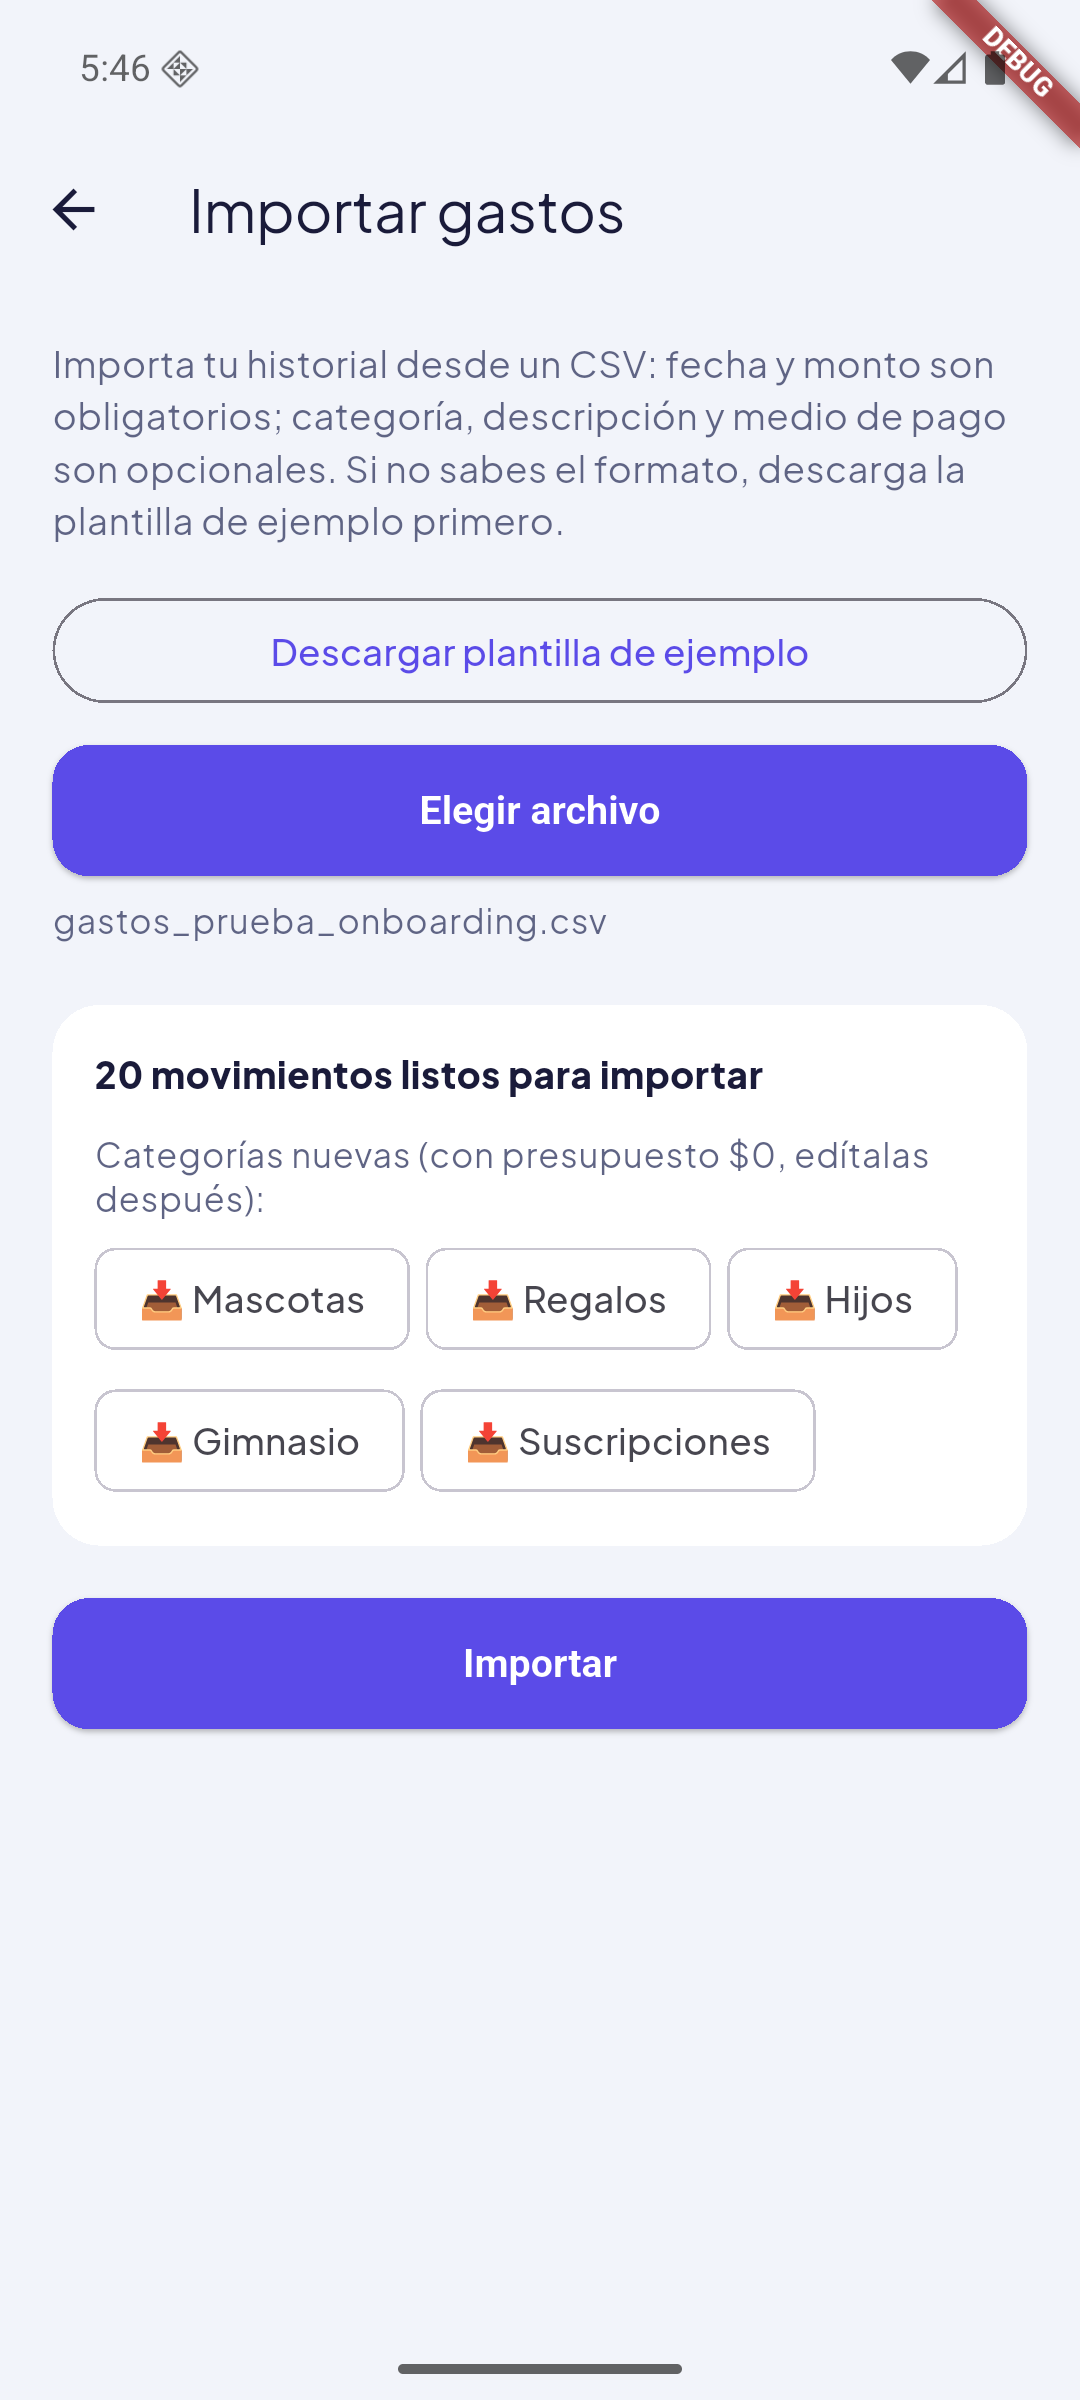
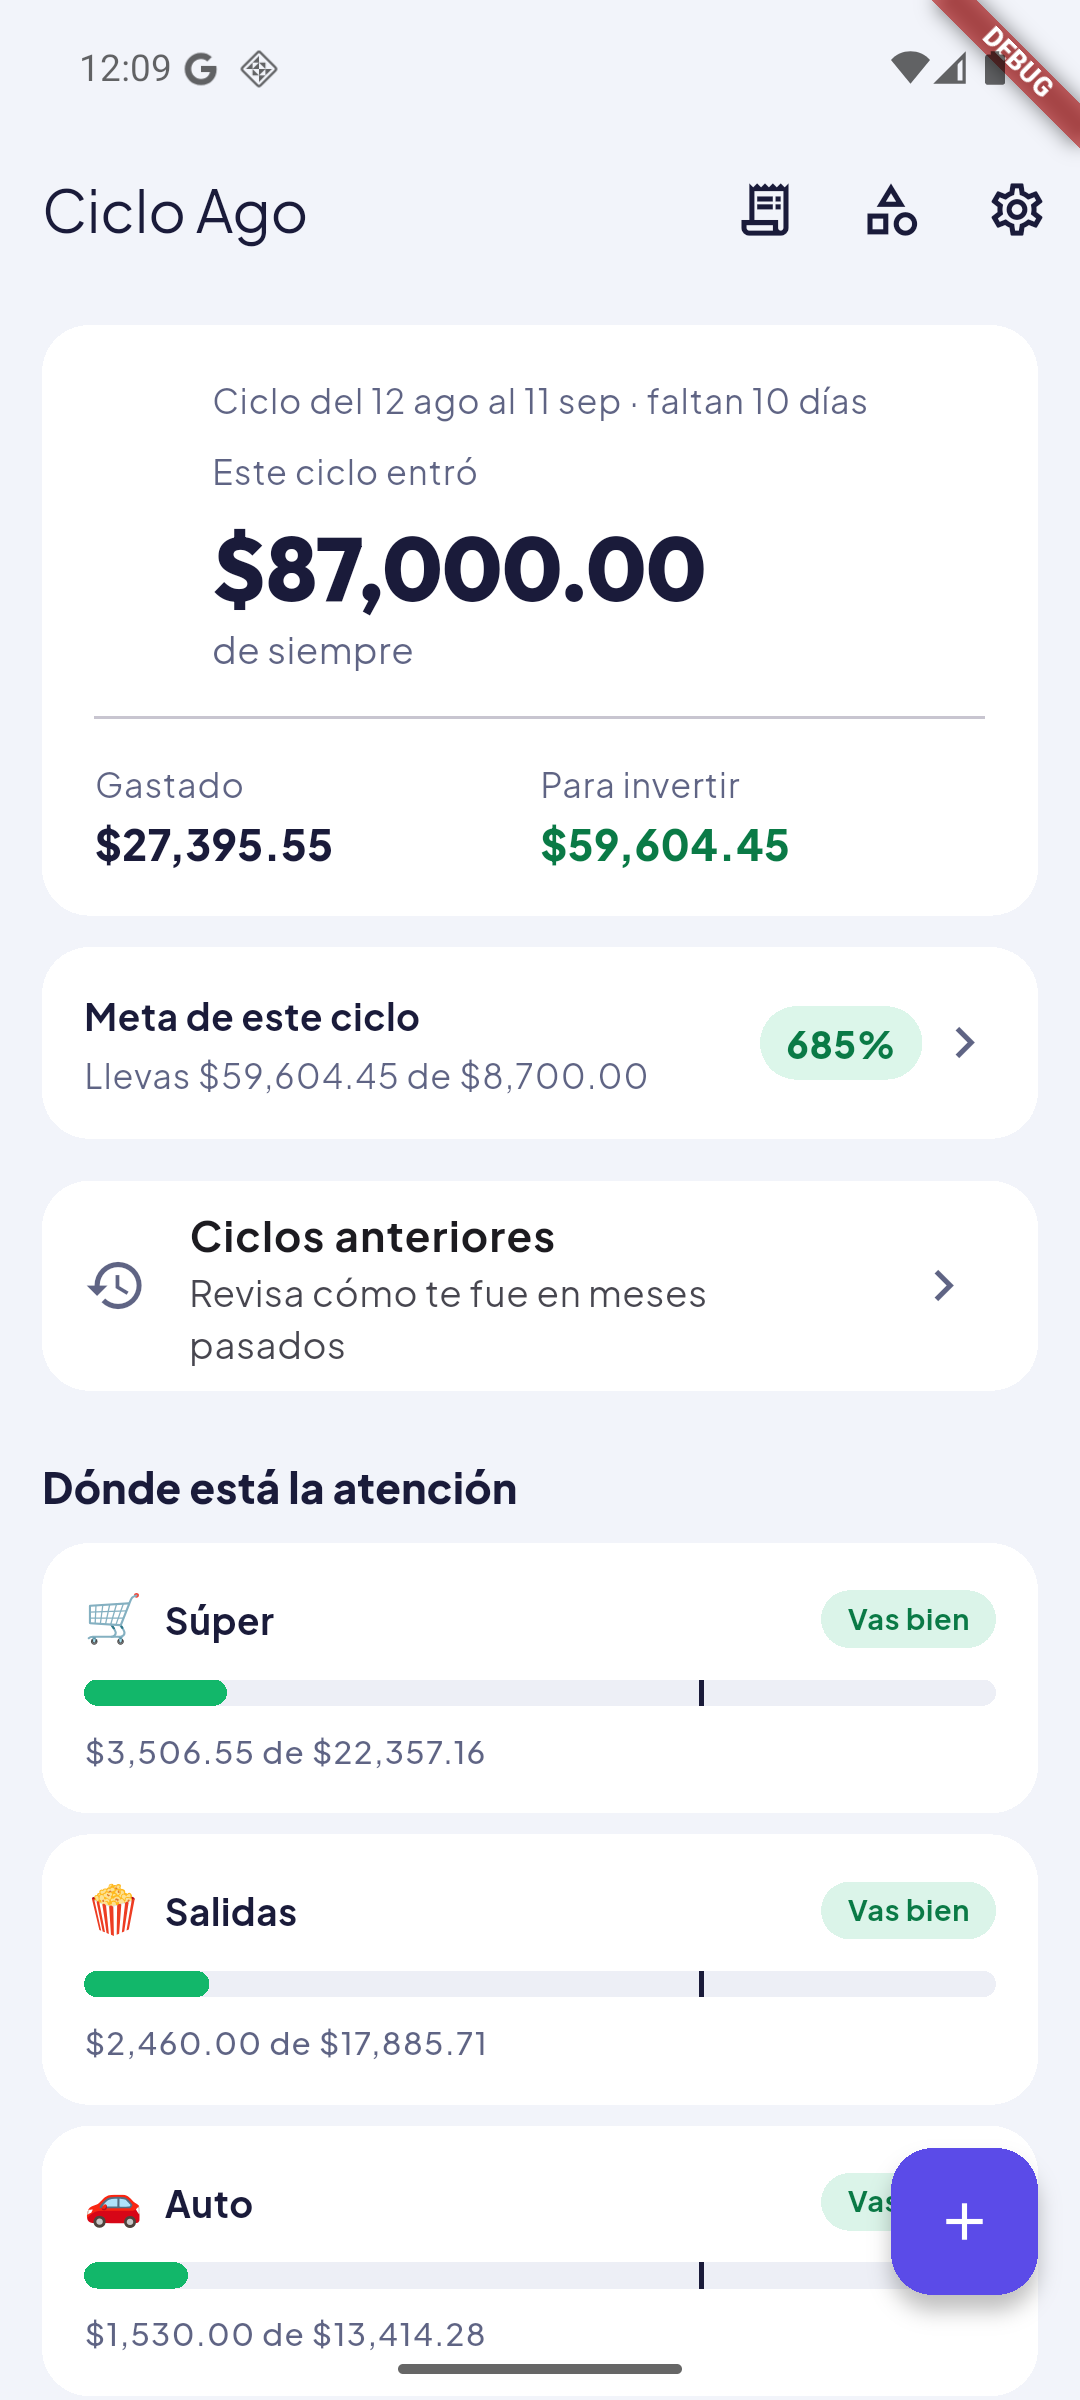
Completar onboarding y actualizar capturas con datos reales
Con el login ya funcionando, se completó el onboarding de una cuenta
de prueba nueva (ciclo día 12, ingreso 87000, meta 10%, categorías
sugeridas) y se importaron 20 movimientos de ejemplo vía CSV para
tener datos reales que mostrar.

Actualiza inicio.png y agrega gastos.png con esos datos. Ciclos
anteriores queda vacío a propósito: es el comportamiento correcto para
una cuenta nueva con el primer ciclo todavía abierto, no algo que se
pueda poblar sin inventar historial falso.

diff --git a/docs/tiendas/capturas/README.md b/docs/tiendas/capturas/README.md
@@ -1,21 +1,31 @@
 # Capturas de pantalla — estado
 
-Capturas reales tomadas del emulador `finanzas_pixel7` (Android 16, API 36)
-el 2026-08-24, con la cuenta real de la sesión (sin datos de prueba
-inventados a propósito, para no ensuciar el historial real):
+Capturas reales tomadas del emulador `finanzas_pixel7` (Android 16, API 36):
 
-- `inicio.png` — Pantalla de inicio con el ciclo en curso.
-- `ajustes.png` — Ajustes, incluida la entrada "Cómo funciona la app".
-- `guia.png` — Guía por temas (lista de temas).
+- `inicio.png` — Pantalla de inicio con el ciclo en curso (actualizada
+  2026-08-31, con historial importado — ver abajo).
+- `gastos.png` — Lista de gastos con movimientos reales (nueva, 2026-08-31).
+- `ajustes.png` — Ajustes, incluida la entrada "Cómo funciona la app"
+  (2026-08-24).
+- `guia.png` — Guía por temas (lista de temas) (2026-08-24).
 - `importar_vista_previa.png` — Vista previa de `previsualizarImportacion`
-  tras elegir un CSV con el selector nativo (`file_picker`).
+  tras elegir un CSV con el selector nativo (`file_picker`) (2026-08-24).
+
+`inicio.png` y `gastos.png` se retomaron el 2026-08-31 en una cuenta nueva
+de prueba (no la cuenta real del usuario), importando
+`gastos_prueba_onboarding.csv` (20 movimientos de ejemplo, ya usado en
+sesiones anteriores para pruebas) vía "Importar gastos" — así que la cifra
+que se ve ahí es historial de prueba, no datos reales de nadie.
 
 **Lo que falta para la ficha de tienda real:**
-- `Gastos` y `Ciclos anteriores` salieron en estado vacío ("Nada por aquí" /
-  "Todavía no hay ciclos anteriores") porque esta cuenta no tenía gastos
-  capturados — no se sembraron datos falsos para no alterar el historial
-  real. Repetir con una cuenta de prueba que sí tenga movimientos para esas
-  dos pantallas.
+- `Ciclos anteriores` sigue en estado vacío ("Todavía no hay ciclos
+  anteriores") — es correcto: es una cuenta recién creada, con el primer
+  ciclo todavía en curso (`calcularEvolucionCiclos` solo agrega ciclos ya
+  cerrados, por diseño — ver `CLAUDE.md`). No se puede poblar sin una
+  cuenta que ya lleve meses de uso real o sin manipular el reloj del
+  sistema — ninguna de las dos es un dato honesto para una captura de
+  tienda, así que se deja pendiente hasta que exista una cuenta de prueba
+  con historial de varios ciclos cerrados.
 - Estas son capturas crudas del dispositivo (1080×2400), no los recortes
   con marco/texto de marketing que piden Play Console / App Store Connect.
 - Falta el gráfico destacado (feature graphic) de Play y el ícono de

diff --git a/docs/tiendas/checklist-publicacion.md b/docs/tiendas/checklist-publicacion.md
@@ -155,17 +155,19 @@ no se movieron.
 - [ ] Declaración de funciones financieras de Play: "Ninguna de estas"
       (documentado en `ficha-play.md`, pendiente de marcarla en Play
       Console al crear la ficha).
-- [~] Capturas de pantalla — 4 tomadas el 2026-08-24 en el emulador
-      (`docs/tiendas/capturas/`: inicio, ajustes, guía, vista previa de
-      importación). **Sigue pendiente:** `Gastos` y `Ciclos anteriores`
-      salieron vacíos (la cuenta usada no tenía movimientos capturados;
-      no se sembraron datos falsos a propósito); repetir esas dos con una
-      cuenta de prueba con historial. También falta recortarlas al
-      formato de marketing que piden las tiendas (no son las capturas
-      crudas del dispositivo) y el gráfico destacado (feature graphic) de
-      Play. El ícono de tienda en alta resolución ya puede salir de
-      `assets/icono/icono_1024.png` (ver arriba), aunque sigue siendo
-      placeholder.
+- [~] Capturas de pantalla — 5 en `docs/tiendas/capturas/`: inicio y
+      gastos (actualizadas 2026-08-31, cuenta de prueba con 20
+      movimientos importados vía CSV — ver `capturas/README.md`),
+      ajustes, guía, vista previa de importación (2026-08-24).
+      **Sigue pendiente:** `Ciclos anteriores` sigue vacío — correcto
+      para una cuenta nueva con el primer ciclo todavía abierto, no
+      poblable sin una cuenta con meses reales de uso o sin manipular el
+      reloj (ninguna honesta para una captura de tienda). También falta
+      recortarlas al formato de marketing que piden las tiendas (no son
+      las capturas crudas del dispositivo) y el gráfico destacado
+      (feature graphic) de Play. El ícono de tienda en alta resolución ya
+      puede salir de `assets/icono/icono_1024.png` (ver arriba), aunque
+      sigue siendo placeholder.
 
 ## Próxima visita a Firebase/Play Console (Bloque 5)
 
